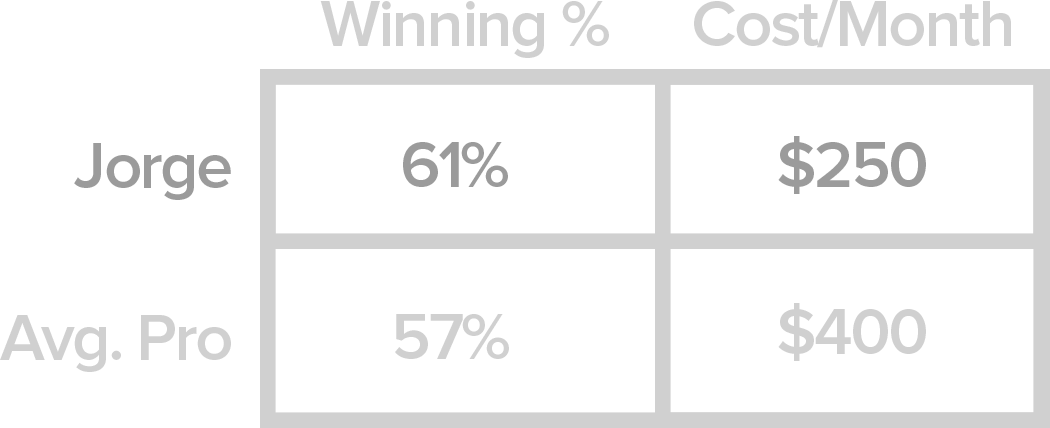
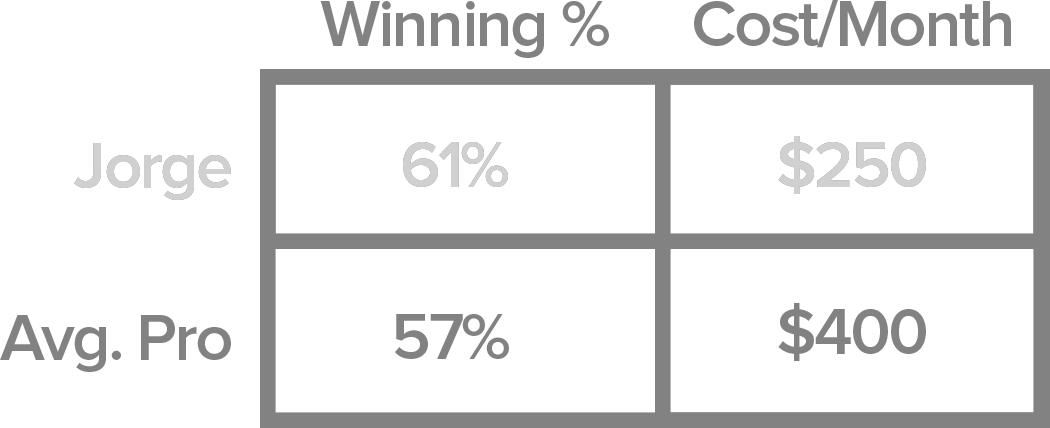
add plan-emphasized styles

diff --git a/src/index.html b/src/index.html
@@ -85,13 +85,13 @@
                   What if I have more questions?
                 </dt>
                 <dd class="faq-answer">
-                  dm
+                  DM
                   <a class="link"
                      target="_blank"
                      title="thebigslip"
                      href="https://www.instagram.com/thebigslip/">
                     @thebigslip</a>
-                  on instagram and we’ll gladly assist you.
+                  on Instagram and we’ll gladly assist you.
                 </dd>
               </dl>
             </div>
@@ -127,7 +127,7 @@
                     </ul>
                 </div>
 
-                <div class="plan swiper-slide">
+                <div class="plan plan-emphasized swiper-slide">
                   <div class="plan-name">Monthly plan</div>
                   <div class="plan-price">$250</div>
                   <a class="btn plan-btn" href="#/ms/signup/5fb63935af35a70004630820">sign-up</a>

diff --git a/src/bets.html b/src/bets.html
@@ -36,12 +36,11 @@
         <div class="container">
           <div class="bets-inner grey-inner">
             <div class="text-container">
-              <h2>11/30 Picks</h2>
-              <p>Go big or go home</p>
+              <h2>12/1 Picks</h2>
               <ul>
-                <li>Steerlers -2 </li>
-                <li>Jaguars +12 </li>
-                <li>Bear +7.5 </li>
+                <li>Indiana ML 1*</li>
+                 <li>Stanford +4 1*</li>
+                 <li>Creighton -19.5 1*</li>
               </ul>
               <p>dm
                 <a class="link"

diff --git a/src/css/components/_plans.scss b/src/css/components/_plans.scss
@@ -79,6 +79,14 @@ $plans_mobile: $media-tablet-portrait;
           @include font_size(13px, 26px);
         }
       }
+
+      &.plan-emphasized {
+        background-color: $green;
+
+        .plan-price {
+          color: $white;
+        }
+      }
     }
   }
 }
